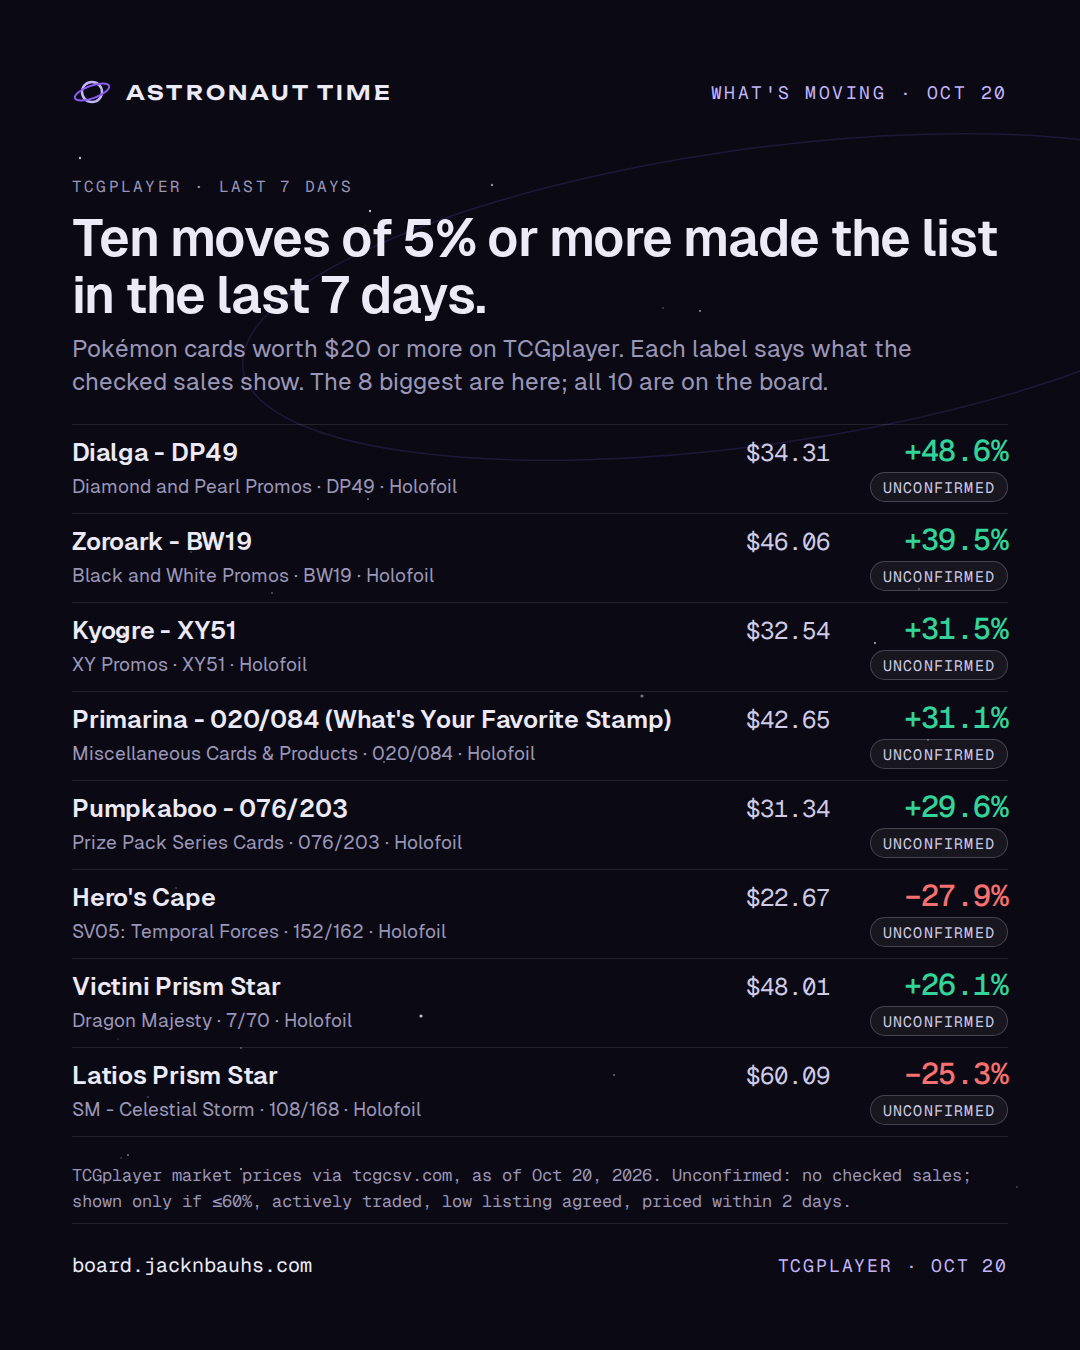
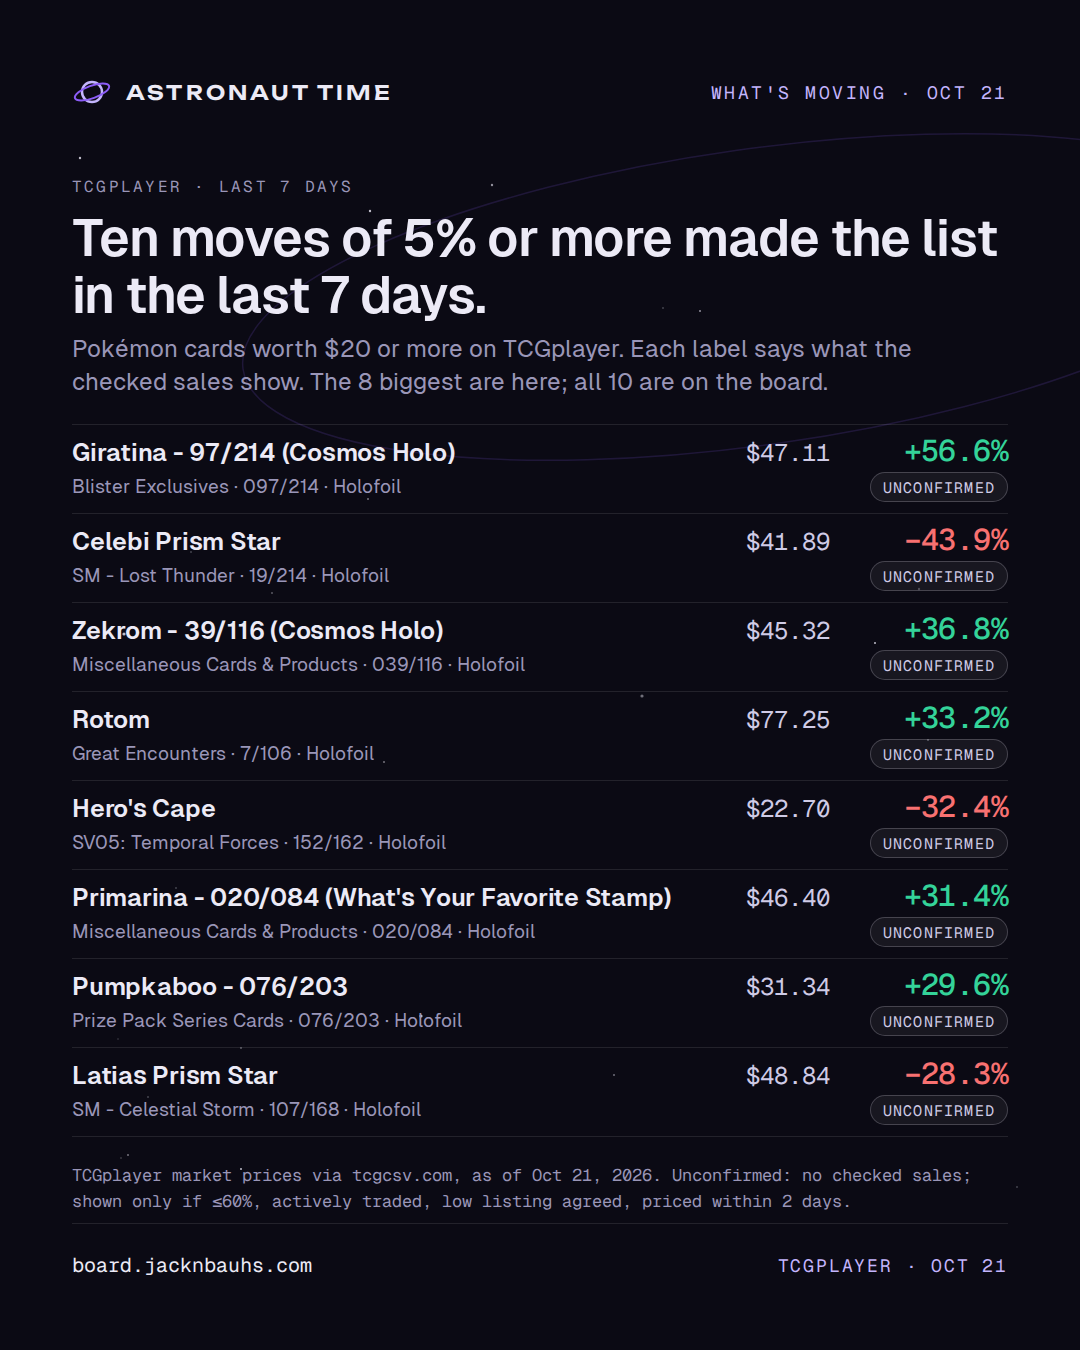
Share kit: render 2026-10-22

diff --git a/card.html b/card.html
@@ -10,14 +10,14 @@
 <meta property="og:url" content="https://board.jacknbauhs.com/card.html">
 <meta property="og:type" content="website">
 <meta property="og:site_name" content="Astronaut Time">
-<meta property="og:image" content="https://board.jacknbauhs.com/assets/og.png?v=2026-10-21">
+<meta property="og:image" content="https://board.jacknbauhs.com/assets/og.png?v=2026-10-22">
 <meta property="og:image:width" content="1200">
 <meta property="og:image:height" content="630">
 <meta property="og:image:alt" content="Mission Control by Astronaut Time: the card market, with the fake sales taken out.">
 <meta name="twitter:card" content="summary_large_image">
 <meta name="twitter:title" content="Card · Mission Control · Astronaut Time">
 <meta name="twitter:description" content="The card market, with the fake sales taken out.">
-<meta name="twitter:image" content="https://board.jacknbauhs.com/assets/og.png?v=2026-10-21">
+<meta name="twitter:image" content="https://board.jacknbauhs.com/assets/og.png?v=2026-10-22">
 <meta name="theme-color" content="#0B0A14">
 <link rel="icon" href="assets/favicon.svg" type="image/svg+xml">
 <link rel="preconnect" href="https://fonts.googleapis.com">

diff --git a/404.html b/404.html
@@ -10,14 +10,14 @@
 <meta property="og:url" content="https://board.jacknbauhs.com/">
 <meta property="og:type" content="website">
 <meta property="og:site_name" content="Astronaut Time">
-<meta property="og:image" content="https://board.jacknbauhs.com/assets/og.png?v=2026-10-21">
+<meta property="og:image" content="https://board.jacknbauhs.com/assets/og.png?v=2026-10-22">
 <meta property="og:image:width" content="1200">
 <meta property="og:image:height" content="630">
 <meta property="og:image:alt" content="Mission Control by Astronaut Time: the card market, with the fake sales taken out.">
 <meta name="twitter:card" content="summary_large_image">
 <meta name="twitter:title" content="Mission Control · Astronaut Time">
 <meta name="twitter:description" content="The card market, with the fake sales taken out.">
-<meta name="twitter:image" content="https://board.jacknbauhs.com/assets/og.png?v=2026-10-21">
+<meta name="twitter:image" content="https://board.jacknbauhs.com/assets/og.png?v=2026-10-22">
 <meta name="theme-color" content="#0B0A14">
 <link rel="icon" href="/assets/favicon.svg" type="image/svg+xml">
 <link rel="preconnect" href="https://fonts.googleapis.com">

diff --git a/index.html b/index.html
@@ -10,14 +10,14 @@
 <meta property="og:url" content="https://board.jacknbauhs.com/">
 <meta property="og:type" content="website">
 <meta property="og:site_name" content="Astronaut Time">
-<meta property="og:image" content="https://board.jacknbauhs.com/assets/og.png?v=2026-10-21">
+<meta property="og:image" content="https://board.jacknbauhs.com/assets/og.png?v=2026-10-22">
 <meta property="og:image:width" content="1200">
 <meta property="og:image:height" content="630">
 <meta property="og:image:alt" content="Mission Control by Astronaut Time: the card market, with the fake sales taken out.">
 <meta name="twitter:card" content="summary_large_image">
 <meta name="twitter:title" content="Mission Control · Astronaut Time">
 <meta name="twitter:description" content="The card market, with the fake sales taken out.">
-<meta name="twitter:image" content="https://board.jacknbauhs.com/assets/og.png?v=2026-10-21">
+<meta name="twitter:image" content="https://board.jacknbauhs.com/assets/og.png?v=2026-10-22">
 <meta name="theme-color" content="#0B0A14">
 <link rel="icon" href="assets/favicon.svg" type="image/svg+xml">
 <link rel="preconnect" href="https://fonts.googleapis.com">

diff --git a/share/out/captions.md b/share/out/captions.md
@@ -1,10 +1,10 @@
-# Captions, board data of 2026-10-21
+# Captions, board data of 2026-10-22
 
 One block per image. Caption first, alt text second. Plain facts, the source and the board link; nothing here is a buy.
 
 ## Before you post
 
-- ✅ Prices are from Oct 20, 2026.
+- ✅ Prices are from Oct 21, 2026.
 - ⚠ All 10 on the 7-day list are unconfirmed: no checked sale behind any. Keep "unconfirmed" in the post and call them price moves, not sales.
 - ⚠ All 10 on the since-yesterday list are unconfirmed: no checked sale behind any. Keep "unconfirmed" in the post and call them price moves, not sales.
 
@@ -46,6 +46,6 @@ Alt: Three calls on the record. Number 001: The 30th Celebration Booster Bundle'
 
 ## moving-2026-W43.png
 
-What's moving on TCGplayer, as of Oct 20, 2026. Ten moves of 5% or more made the list in the last 7 days. Dialga - DP49 (Diamond and Pearl Promos · DP49 · Holofoil): $34.31, +48.6%, unconfirmed. Zoroark - BW19 (Black and White Promos · BW19 · Holofoil): $46.06, +39.5%, unconfirmed. Kyogre - XY51 (XY Promos · XY51 · Holofoil): $32.54, +31.5%, unconfirmed. Primarina - 020/084 (What's Your Favorite Stamp) (Miscellaneous Cards & Products · 020/084 · Holofoil): $42.65, +31.1%, unconfirmed. Pumpkaboo - 076/203 (Prize Pack Series Cards · 076/203 · Holofoil): $31.34, +29.6%, unconfirmed. Hero's Cape (SV05: Temporal Forces · 152/162 · Holofoil): $22.67, −27.9%, unconfirmed. Victini Prism Star (Dragon Majesty · 7/70 · Holofoil): $48.01, +26.1%, unconfirmed. Latios Prism Star (SM - Celestial Storm · 108/168 · Holofoil): $60.09, −25.3%, unconfirmed. Unconfirmed: no checked sales; shown only if ≤60%, actively traded, low listing agreed, priced within 2 days. Source: TCGplayer market prices via tcgcsv.com, as of Oct 20, 2026. board.jacknbauhs.com
+What's moving on TCGplayer, as of Oct 21, 2026. Ten moves of 5% or more made the list in the last 7 days. Giratina - 97/214 (Cosmos Holo) (Blister Exclusives · 097/214 · Holofoil): $47.11, +56.6%, unconfirmed. Celebi Prism Star (SM - Lost Thunder · 19/214 · Holofoil): $41.89, −43.9%, unconfirmed. Zekrom - 39/116 (Cosmos Holo) (Miscellaneous Cards & Products · 039/116 · Holofoil): $45.32, +36.8%, unconfirmed. Rotom (Great Encounters · 7/106 · Holofoil): $77.25, +33.2%, unconfirmed. Hero's Cape (SV05: Temporal Forces · 152/162 · Holofoil): $22.70, −32.4%, unconfirmed. Primarina - 020/084 (What's Your Favorite Stamp) (Miscellaneous Cards & Products · 020/084 · Holofoil): $46.40, +31.4%, unconfirmed. Pumpkaboo - 076/203 (Prize Pack Series Cards · 076/203 · Holofoil): $31.34, +29.6%, unconfirmed. Latias Prism Star (SM - Celestial Storm · 107/168 · Holofoil): $48.84, −28.3%, unconfirmed. Unconfirmed: no checked sales; shown only if ≤60%, actively traded, low listing agreed, priced within 2 days. Source: TCGplayer market prices via tcgcsv.com, as of Oct 21, 2026. board.jacknbauhs.com
 
 Alt: What's moving: the 8 biggest of the 10 TCGplayer moves on the list in the last 7 days, each with its market price, its change and the label for what checked sales show.
